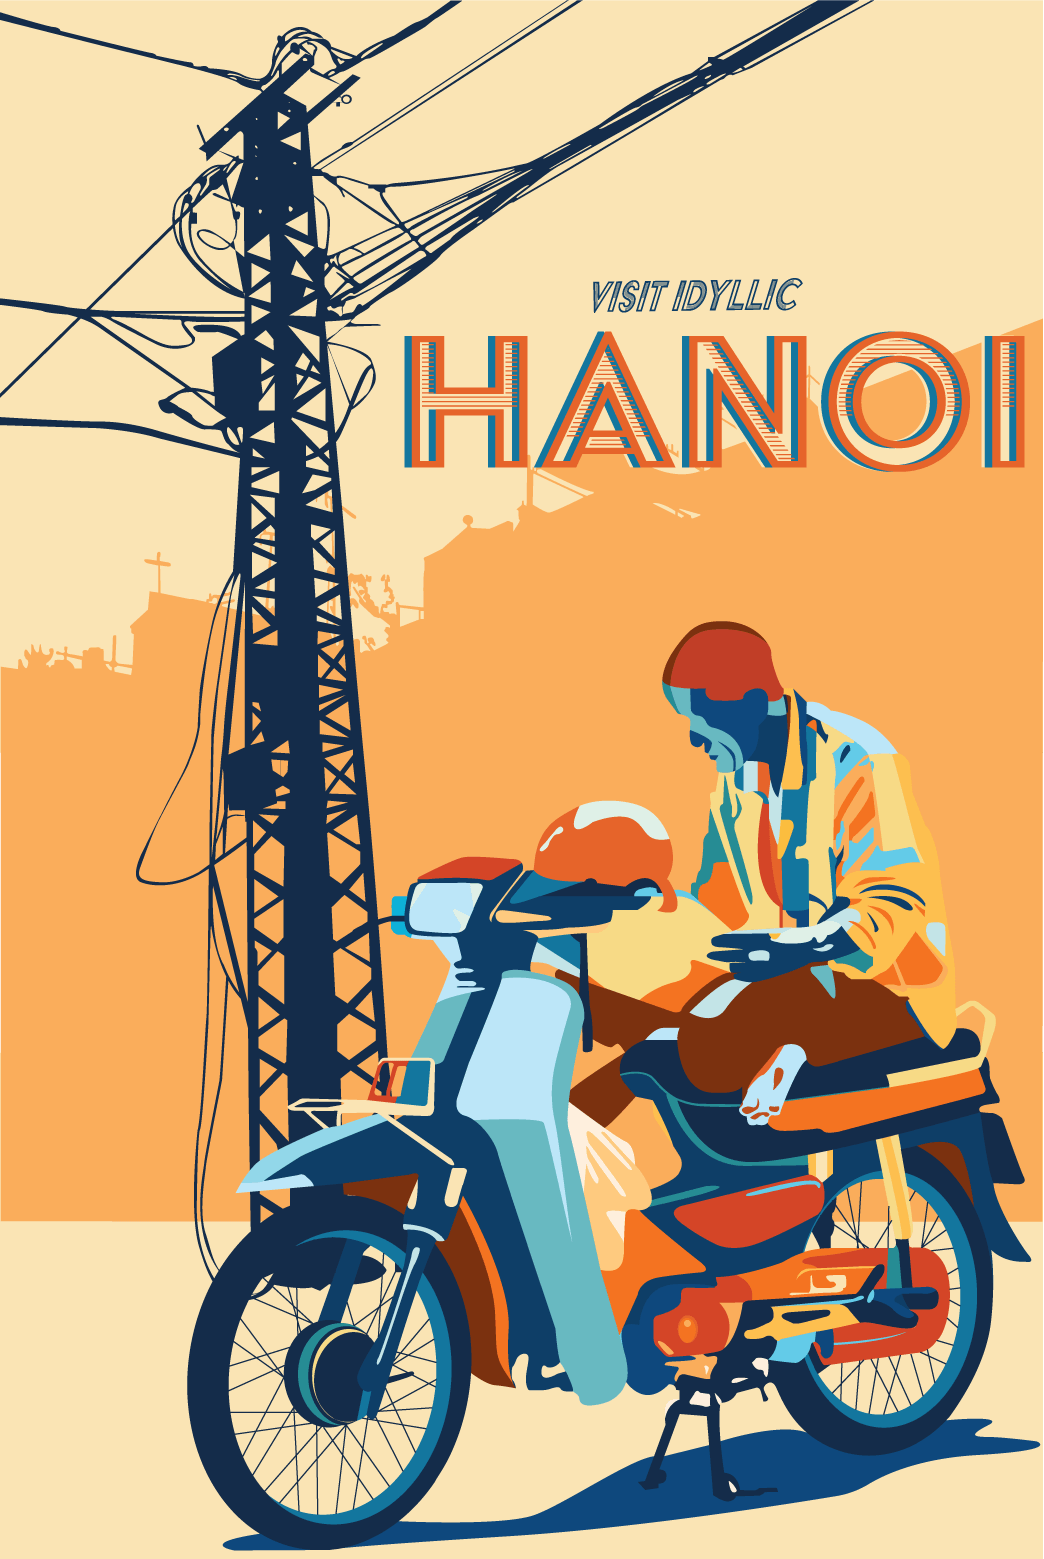
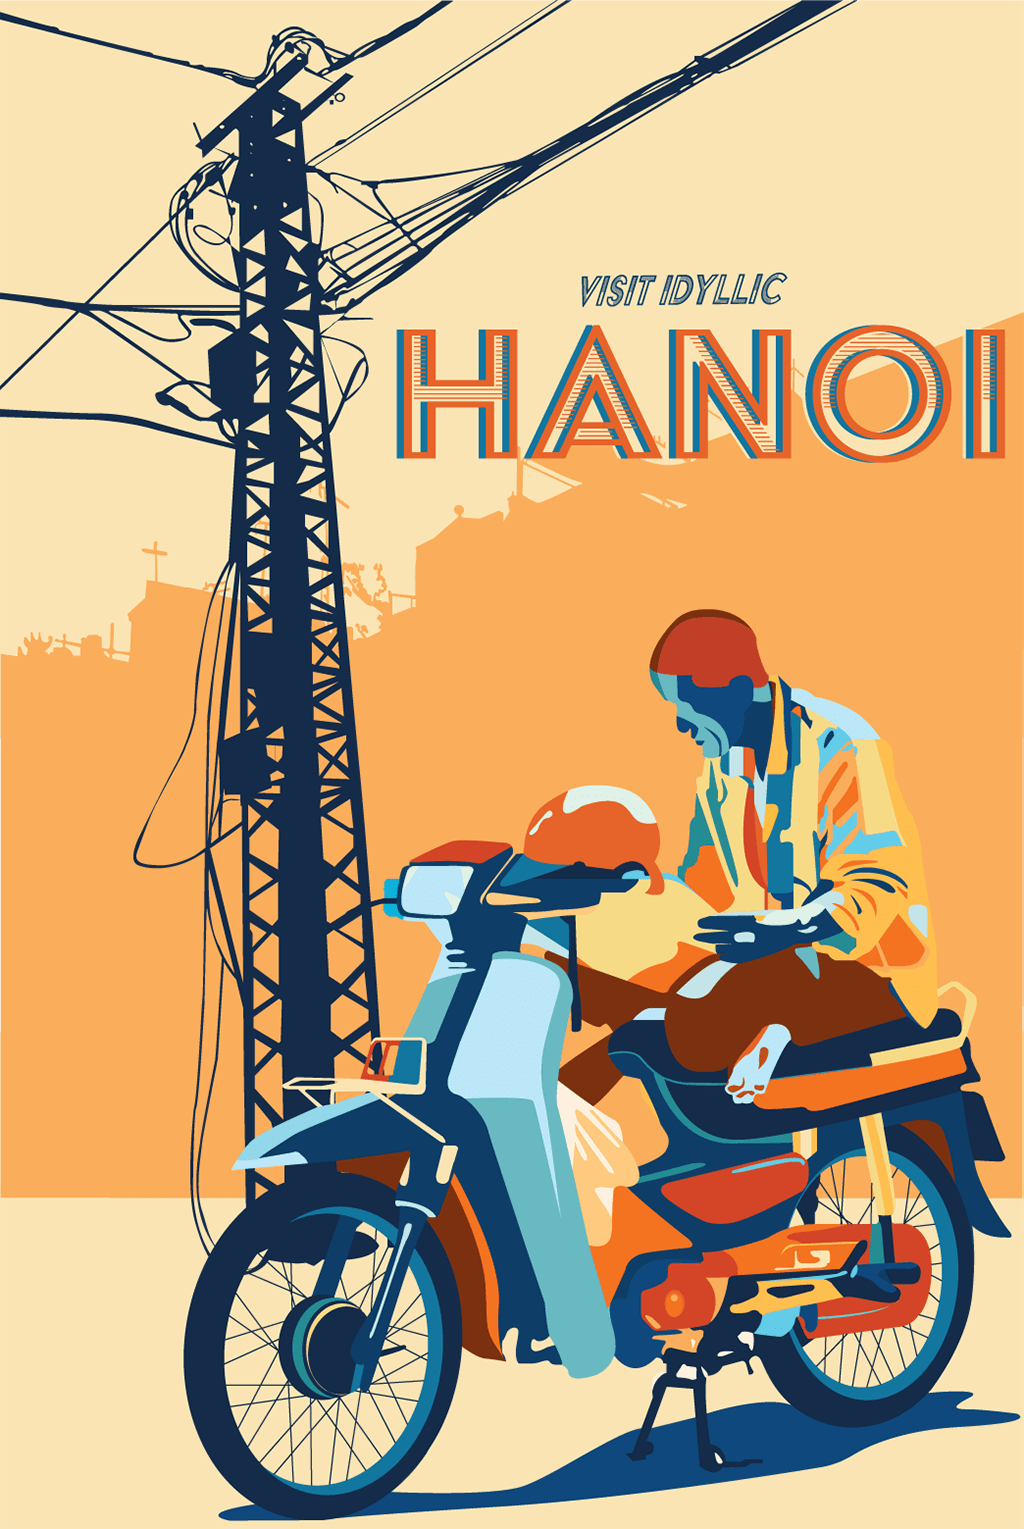
poster-update

diff --git a/dev/scss/sections/_hanoi_poster.scss b/dev/scss/sections/_hanoi_poster.scss
@@ -1,48 +1,24 @@
 #hanoi{
-
-    // display: grid;
-    // grid-template-columns: 16px auto 16px;
-    // grid-template-areas: ". hanoi .";
-    // background-color: $black;
-    // padding: 64px 0;
-
-    // color: white;
-
     @include md{
         grid-template-columns: 32px auto 32px;
     }
 
      >div{
-        //  grid-area: hanoi;
-         
-        //  @include md{
-        //       display: grid;
-        //       grid-template-columns: repeat(2,1fr);
-        //       grid-template-areas: ". hanoi-image"
-        //                            "hanoi-content hanoi-image";
-        //  }
 
          #hanoi-content{
             //  color: white;
              margin-bottom: 15px;
 
-            //  @include md{
-            //      grid-area: hanoi-content;
-            //     justify-content: right;
-                 
-            //  }
+           
          }
 
          #hanoi-image{
-             background-image: url("../img/hanoi_poster/hanoi-poster.png");
+             background-image: url("../img/hanoi_poster/hanoi-poster.jpg");
              background-position: cover;
              background-size: cover;
              height: 680px;
 
-            //  @include md{
-            //      grid-area: hanoi-image;
-            //      height: 781px;
-            //  }
+           
 
          }
      }

diff --git a/deploy/css/styles.css b/deploy/css/styles.css
@@ -547,7 +547,7 @@ footer {
   display: grid;
   grid-template-columns: 16px auto 16px;
   grid-template-areas: ". footer .";
-  background-image: linear-gradient(black, #D5782A);
+  background-image: linear-gradient(#005445, #F36C00);
 }
 @media (min-width: 1024px) {
   footer {
@@ -771,7 +771,7 @@ footer > div #running-icon a:visited {
   margin-bottom: 15px;
 }
 #hanoi > div #hanoi-image {
-  background-image: url("../img/hanoi_poster/hanoi-poster.png");
+  background-image: url("../img/hanoi_poster/hanoi-poster.jpg");
   background-position: cover;
   background-size: cover;
   height: 680px;
@@ -826,7 +826,7 @@ footer > div #running-icon a:visited {
 }
 
 #tattoos-opening {
-  background-color: black;
+  background-image: linear-gradient(#000, #005445);
   color: white;
   padding: 64px 0;
   font-family: "Averia Libre", cursive;

diff --git a/dev/scss/helpers/_variables.scss b/dev/scss/helpers/_variables.scss
@@ -23,7 +23,7 @@ $white: #fff;
 $black: #000;
 $neon-orange: #FE812F;
 $mint: #96B999;
-$burnt-orange: #D5782A;
+$burnt-orange: #CA3A05;
 $orange: #ff9E00;
 $bright-blue: #0000FF;
 $violet: #D886FE;
@@ -40,6 +40,12 @@ $tangerine: #FF6000;
 $purple: #9677DE;
 $banana-leaf: #A9F185;
 $blood-orange: #EF4136;
+$jade: #005445;
+$lipstick-red: #D10000;
+$bright-green: #1CC196;
+$hotpink: #F53C49;
+$retro-orange: #F36C00;
+
 $grey: rgba(173,168,168,1);
 
 

diff --git a/dev/scss/layout/_footer.scss b/dev/scss/layout/_footer.scss
@@ -6,7 +6,7 @@ footer{
      display:  grid;
      grid-template-columns: 16px auto 16px;
      grid-template-areas: ". footer .";
-     background-image: linear-gradient(black, $burnt-orange);
+     background-image: linear-gradient($jade, $retro-orange);
 
 
      @include lg {

diff --git a/dev/scss/sections/_pullquote.scss b/dev/scss/sections/_pullquote.scss
@@ -1,5 +1,5 @@
 #tattoos-opening{
-    background-color: black;
+   background-image: linear-gradient($black, $jade);
     color: white;
     // text-align: center;
     padding: 64px 0;
